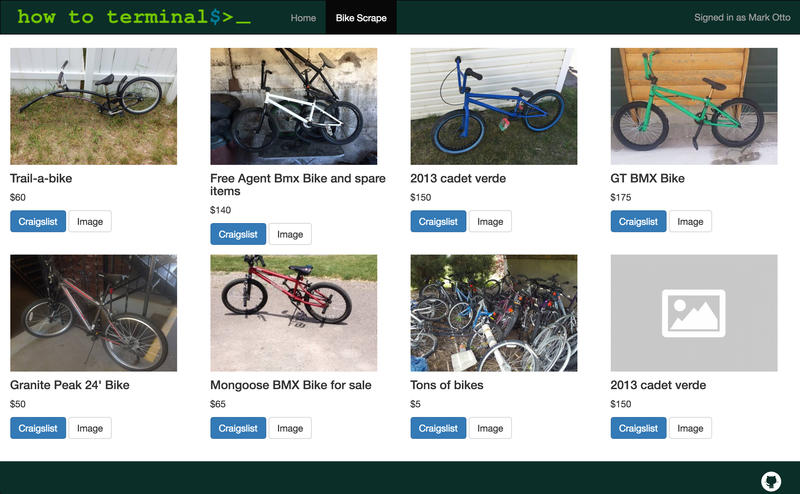
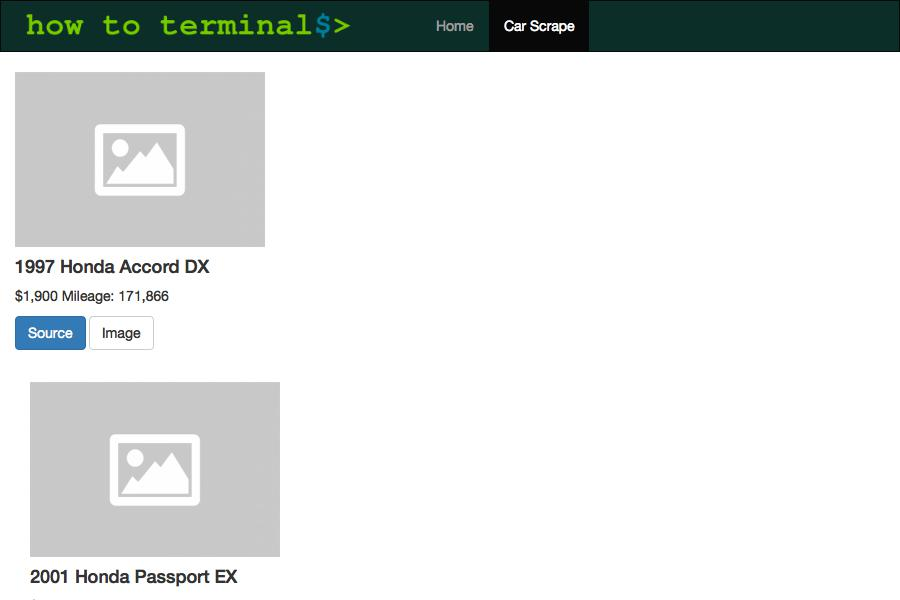
Fix wrapping of / results

diff --git a/gulpfile.js b/gulpfile.js
@@ -13,7 +13,7 @@ var gulp = require('gulp'),
 
 env(__dirname+'/.env');
 var PORTNO = process.env.PORT || 5000;
-var SCREENSHOT_FILE = process.env.SCREENSHOT_FILE || '/screenshot/screenshot.jpg';
+var SCREENSHOT_FILE = process.env.SCREENSHOT_FILE || '/screenshot/screenshot2.jpg';
 var BROWSER_SYNC_RELOAD_DELAY = 500;
 
 //Only devs should need these
@@ -150,7 +150,7 @@ gulp.task('transpile', function() {
 
 // call via 'gulp screenshot'. App must be running
 gulp.task('screenshot', function() {
-  if (process.env.NODE_ENV != 'dev') {
+  if (process.env.NODE_ENV === 'dev') {
     screenshot('http://localhost:' + PORTNO)
     .width(900)
     .height(600)
